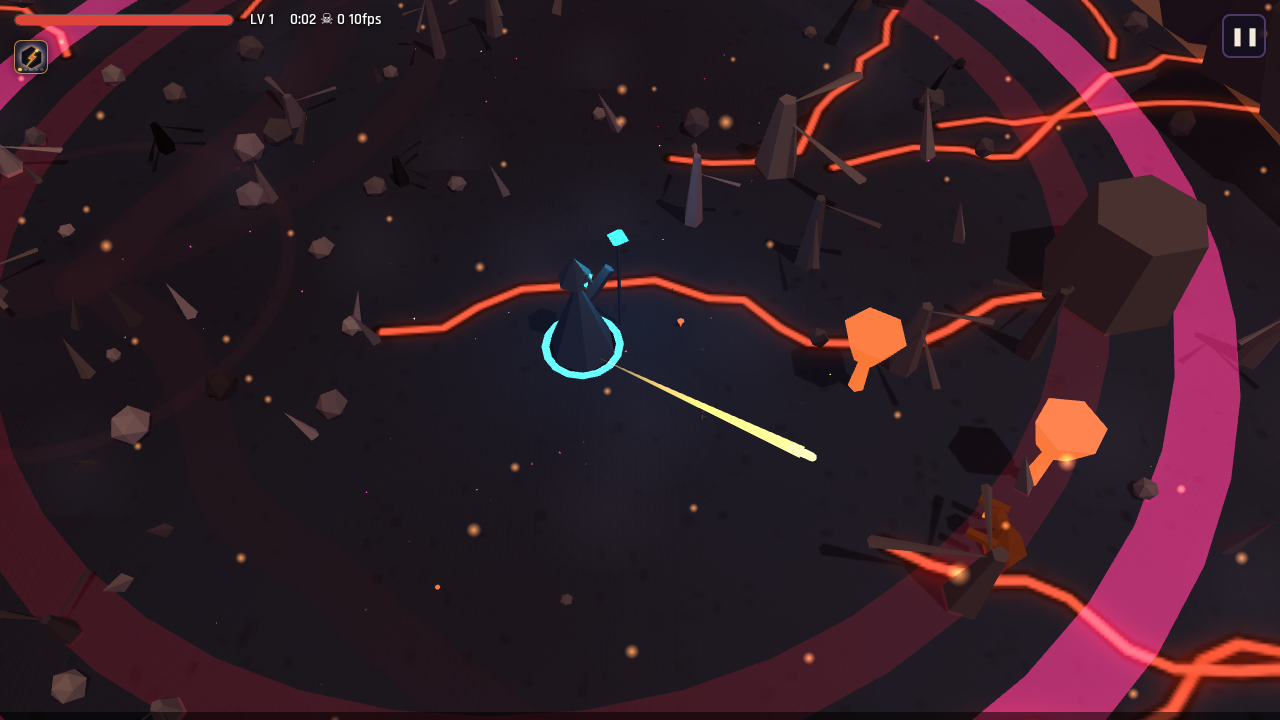
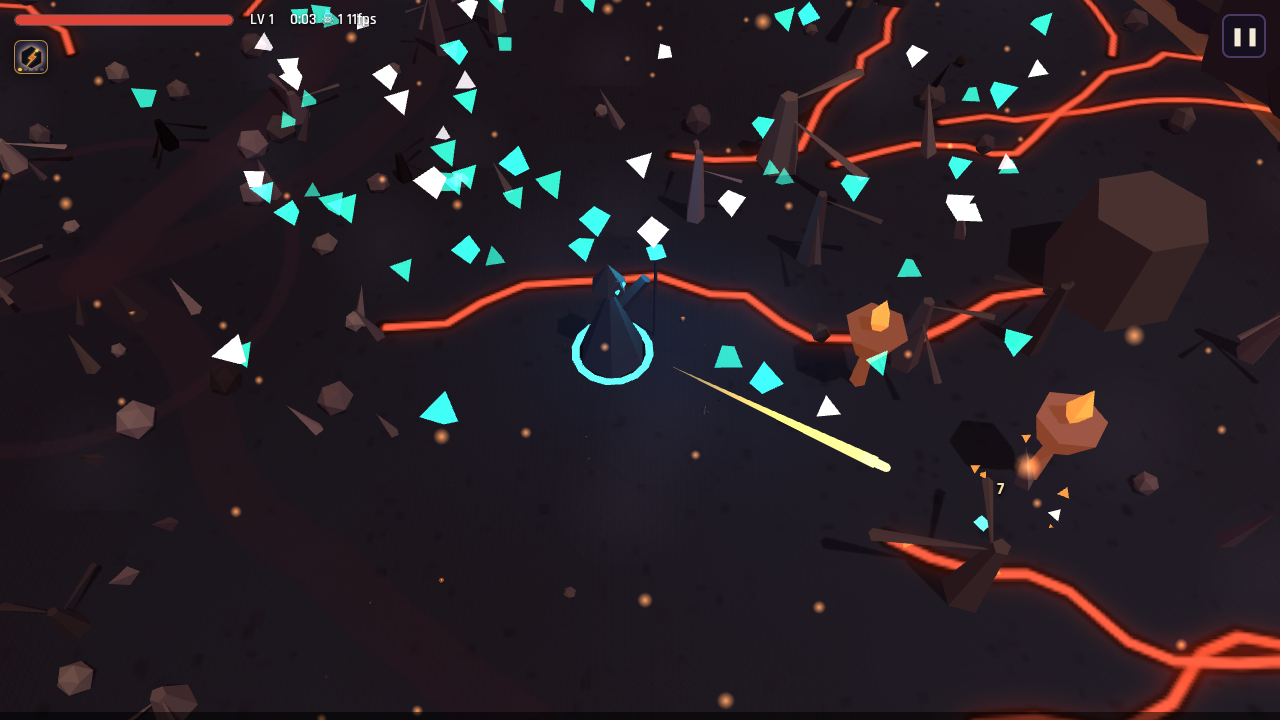
Boss death: BOSS_COLORS (bell teal), 0.5u additive shards ~1.5s low gravity, white flash disc

diff --git a/src/game/render/vfx.ts b/src/game/render/vfx.ts
@@ -8,7 +8,7 @@ export class Vfx {
   constructor(scene: THREE.Scene) {
     const g = new THREE.RingGeometry(0.92, 1, 48); g.rotateX(-Math.PI / 2);
     this.mesh = new THREE.InstancedMesh(g, new THREE.MeshBasicMaterial({ blending: THREE.AdditiveBlending, transparent: true, depthWrite: false, toneMapped: false }), Vfx.N);
-    this.mesh.instanceColor = new THREE.InstancedBufferAttribute(new Float32Array(Vfx.N * 3), 3); this.mesh.frustumCulled = false; this.mesh.count = 0; this.mesh.renderOrder = 2; scene.add(this.mesh); this.initTrail(scene); this.initZap(scene);
+    this.mesh.instanceColor = new THREE.InstancedBufferAttribute(new Float32Array(Vfx.N * 3), 3); this.mesh.frustumCulled = false; this.mesh.count = 0; this.mesh.renderOrder = 2; scene.add(this.mesh); this.initTrail(scene); this.initZap(scene); this.initDisc(scene); this.initShards(scene);
   }
   ring(x: number, z: number, color: number, maxR: number, life: number, y = 0.12) {
     const i = this.head; this.head = (i + 1) % Vfx.N; this.x[i] = x; this.z[i] = z; this.y[i] = y; this.max[i] = maxR; this.life[i] = life; this.lifeMax[i] = life; this.col[i] = color;
@@ -19,7 +19,7 @@ export class Vfx {
   impact(x: number, z: number, color = 0xffd35a) { this.ring(x, z, color, 1.3, 0.2, 0.5); }
   bossBurst(x: number, z: number) { this.ring(x, z, 0xff3355, 18, 0.9); this.ring(x, z, 0xffffff, 9, 0.5); }
   // --- chain lightning: immediate-mode jagged additive bolts (re-jittered every frame = flicker) ---
-  static NZ = 320; private zm!: THREE.InstancedMesh; private zn = 0; private zc = new THREE.Color();
+  static NZ = 640; private zm!: THREE.InstancedMesh; private zn = 0; private zc = new THREE.Color();
   private initZap(scene: THREE.Scene) { this.zm = new THREE.InstancedMesh(new THREE.BoxGeometry(1, 1, 1), new THREE.MeshBasicMaterial({ blending: THREE.AdditiveBlending, transparent: true, depthWrite: false, toneMapped: false }), Vfx.NZ);
     this.zm.instanceColor = new THREE.InstancedBufferAttribute(new Float32Array(Vfx.NZ * 3), 3); this.zm.frustumCulled = false; this.zm.count = 0; scene.add(this.zm); }
   zapBegin() { this.zn = 0; }
@@ -28,19 +28,42 @@ export class Vfx {
     for (let i = 1; i <= seg && this.zn < Vfx.NZ; i++) {
       const t = i / seg, j = i === seg ? 0 : (Math.random() - 0.5) * 2 * jag, qx = x1 + dx * t + nx * j, qz = z1 + dz * t + nz * j;
       const sx = qx - px, sz = qz - pz, sl = Math.hypot(sx, sz) || 0.01;
-      this.o.position.set((px + qx) / 2, y, (pz + qz) / 2); this.o.rotation.set(0, Math.atan2(sx, sz), 0); this.o.scale.set(0.11, 0.11, sl + 0.05); this.o.updateMatrix(); this.zm.setMatrixAt(this.zn, this.o.matrix);
-      this.zc.setHex(color).multiplyScalar(2.4 * (0.7 + Math.random() * 0.6)); this.zm.setColorAt(this.zn++, this.zc); px = qx; pz = qz; }
+      this.o.position.set((px + qx) / 2, y, (pz + qz) / 2); this.o.rotation.set(0, Math.atan2(sx, sz), 0);
+      const fl = 0.7 + Math.random() * 0.6; // halo (wide, faint, tinted) then core (thin, white-hot); both flicker
+      if (this.zn + 1 < Vfx.NZ) { this.o.scale.set(0.44, 0.3, sl + 0.1); this.o.updateMatrix(); this.zm.setMatrixAt(this.zn, this.o.matrix); this.zc.setHex(color).multiplyScalar(0.55 * fl); this.zm.setColorAt(this.zn++, this.zc); }
+      this.o.scale.set(0.13, 0.13, sl + 0.05); this.o.updateMatrix(); this.zm.setMatrixAt(this.zn, this.o.matrix); this.zc.setHex(0xffffff).multiplyScalar(2.8 * fl); this.zm.setColorAt(this.zn++, this.zc); px = qx; pz = qz; }
     this.o.rotation.set(0, 0, 0);
   }
   zapEnd() { this.zm.count = this.zn; this.zm.instanceMatrix.needsUpdate = true; if (this.zm.instanceColor) this.zm.instanceColor.needsUpdate = true; }
+  // --- big additive boss-death shards (0.5u, ~1.5s, low gravity, tumbling) ---
+  static NS = 256; private sm!: THREE.InstancedMesh; private sp = new Float32Array(Vfx.NS * 3); private sv = new Float32Array(Vfx.NS * 3); private sl = new Float32Array(Vfx.NS); private sc = new Uint32Array(Vfx.NS); private sh = 0;
+  private initShards(scene: THREE.Scene) { this.sm = new THREE.InstancedMesh(new THREE.TetrahedronGeometry(0.5), new THREE.MeshBasicMaterial({ blending: THREE.AdditiveBlending, transparent: true, depthWrite: false, toneMapped: false }), Vfx.NS);
+    this.sm.instanceColor = new THREE.InstancedBufferAttribute(new Float32Array(Vfx.NS * 3), 3); this.sm.frustumCulled = false; this.sm.count = 0; scene.add(this.sm); }
+  bossShards(x: number, z: number, color: number, n = 90) { for (let k = 0; k < n; k++) { const i = this.sh; this.sh = (i + 1) % Vfx.NS; const a = Math.random() * 6.283, v = 4 + Math.random() * 10;
+      this.sp[i * 3] = x; this.sp[i * 3 + 1] = 0.8; this.sp[i * 3 + 2] = z; this.sv[i * 3] = Math.cos(a) * v; this.sv[i * 3 + 1] = 4 + Math.random() * 6; this.sv[i * 3 + 2] = Math.sin(a) * v; this.sl[i] = 1.1 + Math.random() * 0.6; this.sc[i] = k % 3 === 0 ? 0xffffff : color; } }
+  private updateShards(dt: number) { let k = 0; for (let i = 0; i < Vfx.NS; i++) { if (this.sl[i] <= 0) continue; this.sl[i] -= dt; if (this.sl[i] <= 0) continue;
+      this.sv[i * 3 + 1] -= 4 * dt; this.sp[i * 3] += this.sv[i * 3] * dt; this.sp[i * 3 + 1] = Math.max(0.1, this.sp[i * 3 + 1] + this.sv[i * 3 + 1] * dt); this.sp[i * 3 + 2] += this.sv[i * 3 + 2] * dt; const f = Math.min(1, this.sl[i]);
+      this.o.position.set(this.sp[i * 3], this.sp[i * 3 + 1], this.sp[i * 3 + 2]); this.o.rotation.set(this.sl[i] * 5, this.sl[i] * 3, 0); this.o.scale.setScalar(0.4 + 0.6 * f); this.o.updateMatrix(); this.sm.setMatrixAt(k, this.o.matrix); this.c.setHex(this.sc[i]).multiplyScalar(2.2 * f); this.sm.setColorAt(k++, this.c); }
+    this.sm.count = k; this.sm.instanceMatrix.needsUpdate = true; if (this.sm.instanceColor) this.sm.instanceColor.needsUpdate = true; }
+  /** Boss death: white flash disc, shockwave rings and big shards in the boss colour. */
+  bossDeath(x: number, z: number, color: number) { this.disc(x, z, 0xffffff, 34, 0.22); this.ring(x, z, color, 28, 1.4); this.ring(x, z, 0xffffff, 14, 0.8, 0.3); this.bossShards(x, z, color); }
+  // --- filled translucent discs (frost nova impact) ---
+  static ND = 16; private dm!: THREE.InstancedMesh; private dx = new Float32Array(Vfx.ND * 2); private dl = new Float32Array(Vfx.ND); private dmx = new Float32Array(Vfx.ND); private dr = new Float32Array(Vfx.ND); private dc = new Uint32Array(Vfx.ND); private dh = 0;
+  private initDisc(scene: THREE.Scene) { const g = new THREE.CircleGeometry(1, 40); g.rotateX(-Math.PI / 2); this.dm = new THREE.InstancedMesh(g, new THREE.MeshBasicMaterial({ blending: THREE.AdditiveBlending, transparent: true, depthWrite: false, toneMapped: false }), Vfx.ND);
+    this.dm.instanceColor = new THREE.InstancedBufferAttribute(new Float32Array(Vfx.ND * 3), 3); this.dm.frustumCulled = false; this.dm.count = 0; this.dm.renderOrder = 1; scene.add(this.dm); }
+  disc(x: number, z: number, color: number, R: number, life: number) { const i = this.dh; this.dh = (i + 1) % Vfx.ND; this.dx[i * 2] = x; this.dx[i * 2 + 1] = z; this.dmx[i] = R; this.dl[i] = this.dr[i] = life; this.dc[i] = color; }
+  private updateDisc(dt: number) { let k = 0; for (let i = 0; i < Vfx.ND; i++) { if (this.dl[i] <= 0) continue; this.dl[i] -= dt; if (this.dl[i] <= 0) continue; const t = 1 - this.dl[i] / this.dr[i], r = this.dmx[i] * (1 - (1 - t) * (1 - t) * (1 - t));
+      this.o.position.set(this.dx[i * 2], 0.1, this.dx[i * 2 + 1]); this.o.rotation.set(0, 0, 0); this.o.scale.set(r, 1, r); this.o.updateMatrix(); this.dm.setMatrixAt(k, this.o.matrix); this.c.setHex(this.dc[i]).multiplyScalar(0.55 * (1 - t) * (1 - t)); this.dm.setColorAt(k++, this.c); }
+    this.dm.count = k; this.dm.instanceMatrix.needsUpdate = true; if (this.dm.instanceColor) this.dm.instanceColor.needsUpdate = true; }
   /** Frost nova: expanding ice ring (thick, #9fe8ff) + inner white pulse. */
-  nova(x: number, z: number, R: number) { this.ring(x, z, 0x9fe8ff, R, 0.45, 0.2); this.ring(x, z, 0xffffff, R * 0.7, 0.3, 0.25); this.ring(x, z, 0x9fe8ff, R * 0.4, 0.5, 0.15); }
+  nova(x: number, z: number, R: number) { this.disc(x, z, 0x9fe8ff, R, 0.5); this.ring(x, z, 0x9fe8ff, R, 0.45, 0.2); this.ring(x, z, 0xffffff, R * 0.7, 0.3, 0.25); this.ring(x, z, 0x9fe8ff, R * 0.4, 0.5, 0.15); }
   // --- gem trail: tiny additive diamonds left behind magnetised gems; fade+shrink ---
   static NT = 256; private tm!: THREE.InstancedMesh; private tx = new Float32Array(Vfx.NT * 3); private tl = new Float32Array(Vfx.NT); private tc = new Uint32Array(Vfx.NT); private th = 0;
   private initTrail(scene: THREE.Scene) { this.tm = new THREE.InstancedMesh(new THREE.OctahedronGeometry(0.16), new THREE.MeshBasicMaterial({ blending: THREE.AdditiveBlending, transparent: true, depthWrite: false, toneMapped: false }), Vfx.NT);
     this.tm.instanceColor = new THREE.InstancedBufferAttribute(new Float32Array(Vfx.NT * 3), 3); this.tm.frustumCulled = false; this.tm.count = 0; scene.add(this.tm); }
   trail(x: number, y: number, z: number, color = 0x3df2ff) { const i = this.th; this.th = (i + 1) % Vfx.NT; this.tx[i * 3] = x; this.tx[i * 3 + 1] = y; this.tx[i * 3 + 2] = z; this.tl[i] = 0.35; this.tc[i] = color; }
   update(dt: number) {
+    this.updateDisc(dt); this.updateShards(dt);
     { let k = 0; for (let i = 0; i < Vfx.NT; i++) { if (this.tl[i] <= 0) continue; this.tl[i] -= dt; if (this.tl[i] <= 0) continue; const f = this.tl[i] / 0.35;
         this.o.position.set(this.tx[i * 3], this.tx[i * 3 + 1], this.tx[i * 3 + 2]); this.o.scale.setScalar(f); this.o.rotation.set(0, 0, 0); this.o.updateMatrix(); this.tm.setMatrixAt(k, this.o.matrix); this.c.setHex(this.tc[i]).multiplyScalar(2.5 * f); this.tm.setColorAt(k++, this.c); }
       this.tm.count = k; this.tm.instanceMatrix.needsUpdate = true; if (this.tm.instanceColor) this.tm.instanceColor.needsUpdate = true; }

diff --git a/src/game/render/renderer.ts b/src/game/render/renderer.ts
@@ -11,6 +11,7 @@ import { OccluderFader } from './occluders';
 import { createHero } from './hero';
 import { CameraRig } from './camera';
 import { EnemyRenderer, KIND_COLORS } from './enemies';
+import { BOSS_COLORS } from './bosses';
 import { Vfx, createTelegraph } from './vfx';
 import { DamageNumbers } from './dmgnums';
 import { MAX_ENEMIES, MAX_PROJECTILES, MAX_PICKUPS } from '@shared/types';
@@ -63,7 +64,7 @@ export class Renderer {
       else if (e.t === 'shoot') { if (e.weapon === 'frost_nova') { this.vfx.nova(e.x, e.z, 5.5); this.burst(e.x, e.z, 36, 0x9fe8ff, 11); this.rig.addTrauma(0.15); } else if (e.weapon === 'ember_bolt') { const f = this.playerMesh.rotation.y; this.vfx.muzzle(e.x, e.z, Math.sin(f), Math.cos(f)); } }
       else if (e.t === 'hit') { this.vfx.impact(e.x, e.z, e.crit ? 0xffffff : 0xffd35a); this.burst(e.x, e.z, e.crit ? 4 : 1, 0xffe9a8, 3); this.dmg.add(e.x, e.z, e.dmg, e.crit); }
       else if (e.t === 'playerHurt') this.rig.addTrauma(0.6);
-      else if (e.t === 'bossSpawn') { this.rig.addTrauma(0.7); this.vfx.bossBurst(e.x, e.z); } else if (e.t === 'bossDeath') { this.rig.addTrauma(1); this.vfx.bossBurst(e.x, e.z); const bc = e.bossId === 'hollow_stag' ? 0xff6a2b : e.bossId === 'bell_warden' ? 0xff2e88 : 0xb06bff; this.vfx.ring(e.x, e.z, bc, 26, 1.4); this.vfx.ring(e.x, e.z, 0xffffff, 14, 0.8, 0.3); this.burst(e.x, e.z, 140, bc, 13); this.burst(e.x, e.z, 60, 0xffffff, 7); this.burst(e.x, e.z, 50, 0xffd35a, 18); }
+      else if (e.t === 'bossSpawn') { this.rig.addTrauma(0.7); this.vfx.bossBurst(e.x, e.z); } else if (e.t === 'bossDeath') { this.rig.addTrauma(1); this.vfx.bossBurst(e.x, e.z); this.vfx.bossDeath(e.x, e.z, BOSS_COLORS[e.bossId as keyof typeof BOSS_COLORS] ?? 0xff3355); this.burst(e.x, e.z, 60, 0xffd35a, 18); }
       else if (e.t === 'levelUp') { this.rig.addTrauma(0.2); this.slowmo = 0.6; this.vfx.levelUp(this.playerMesh.position.x, this.playerMesh.position.z); this.burst(this.playerMesh.position.x, this.playerMesh.position.z, 40, 0x4de8ff, 9); }
     }
   }
